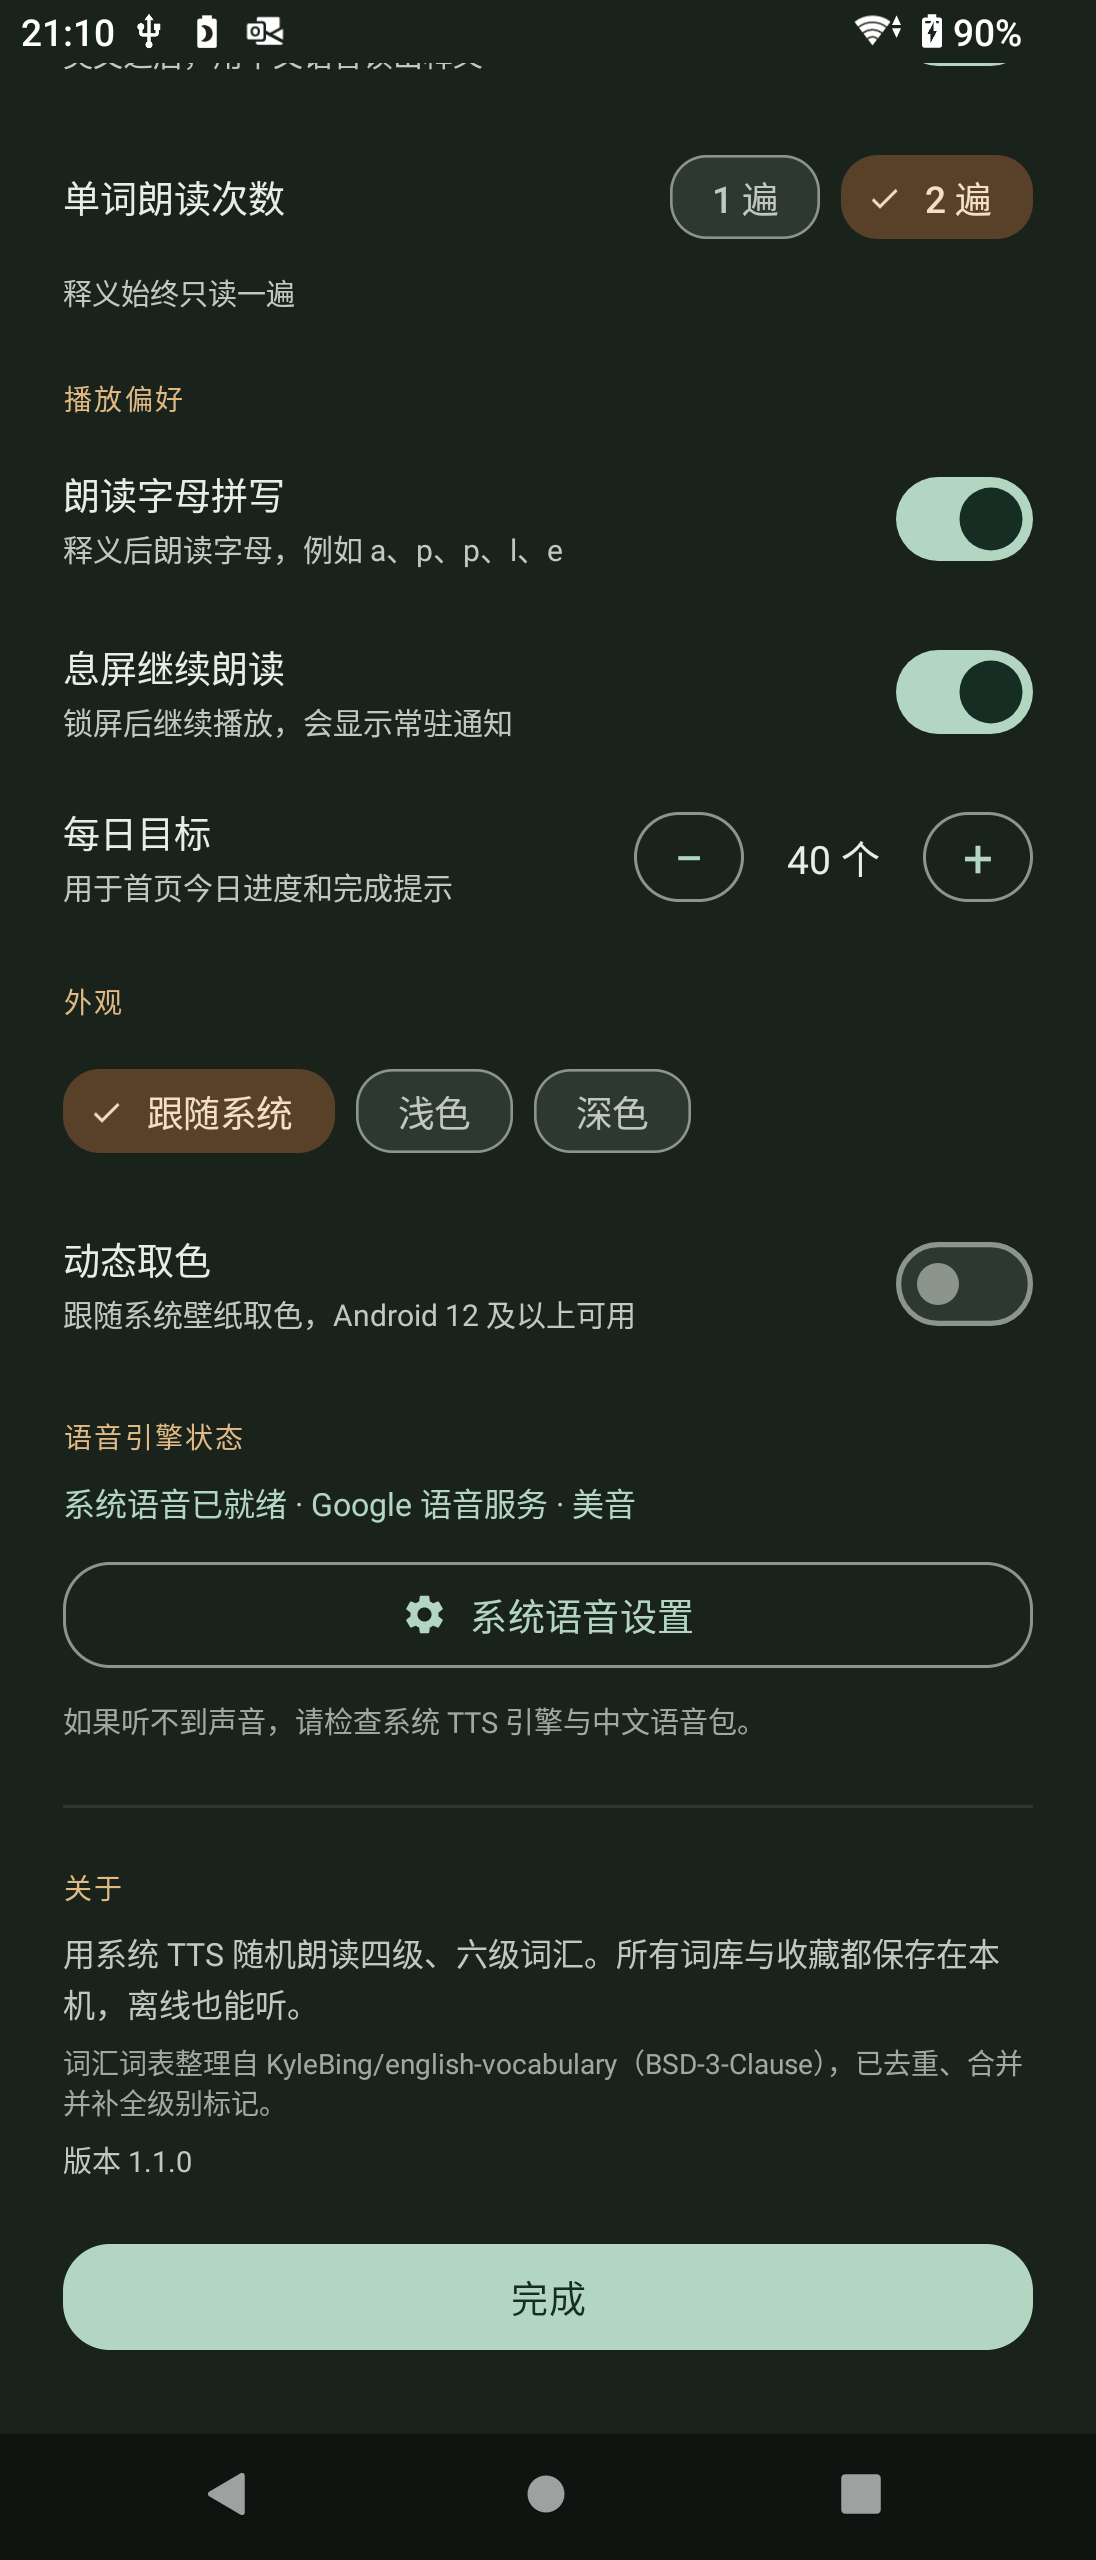
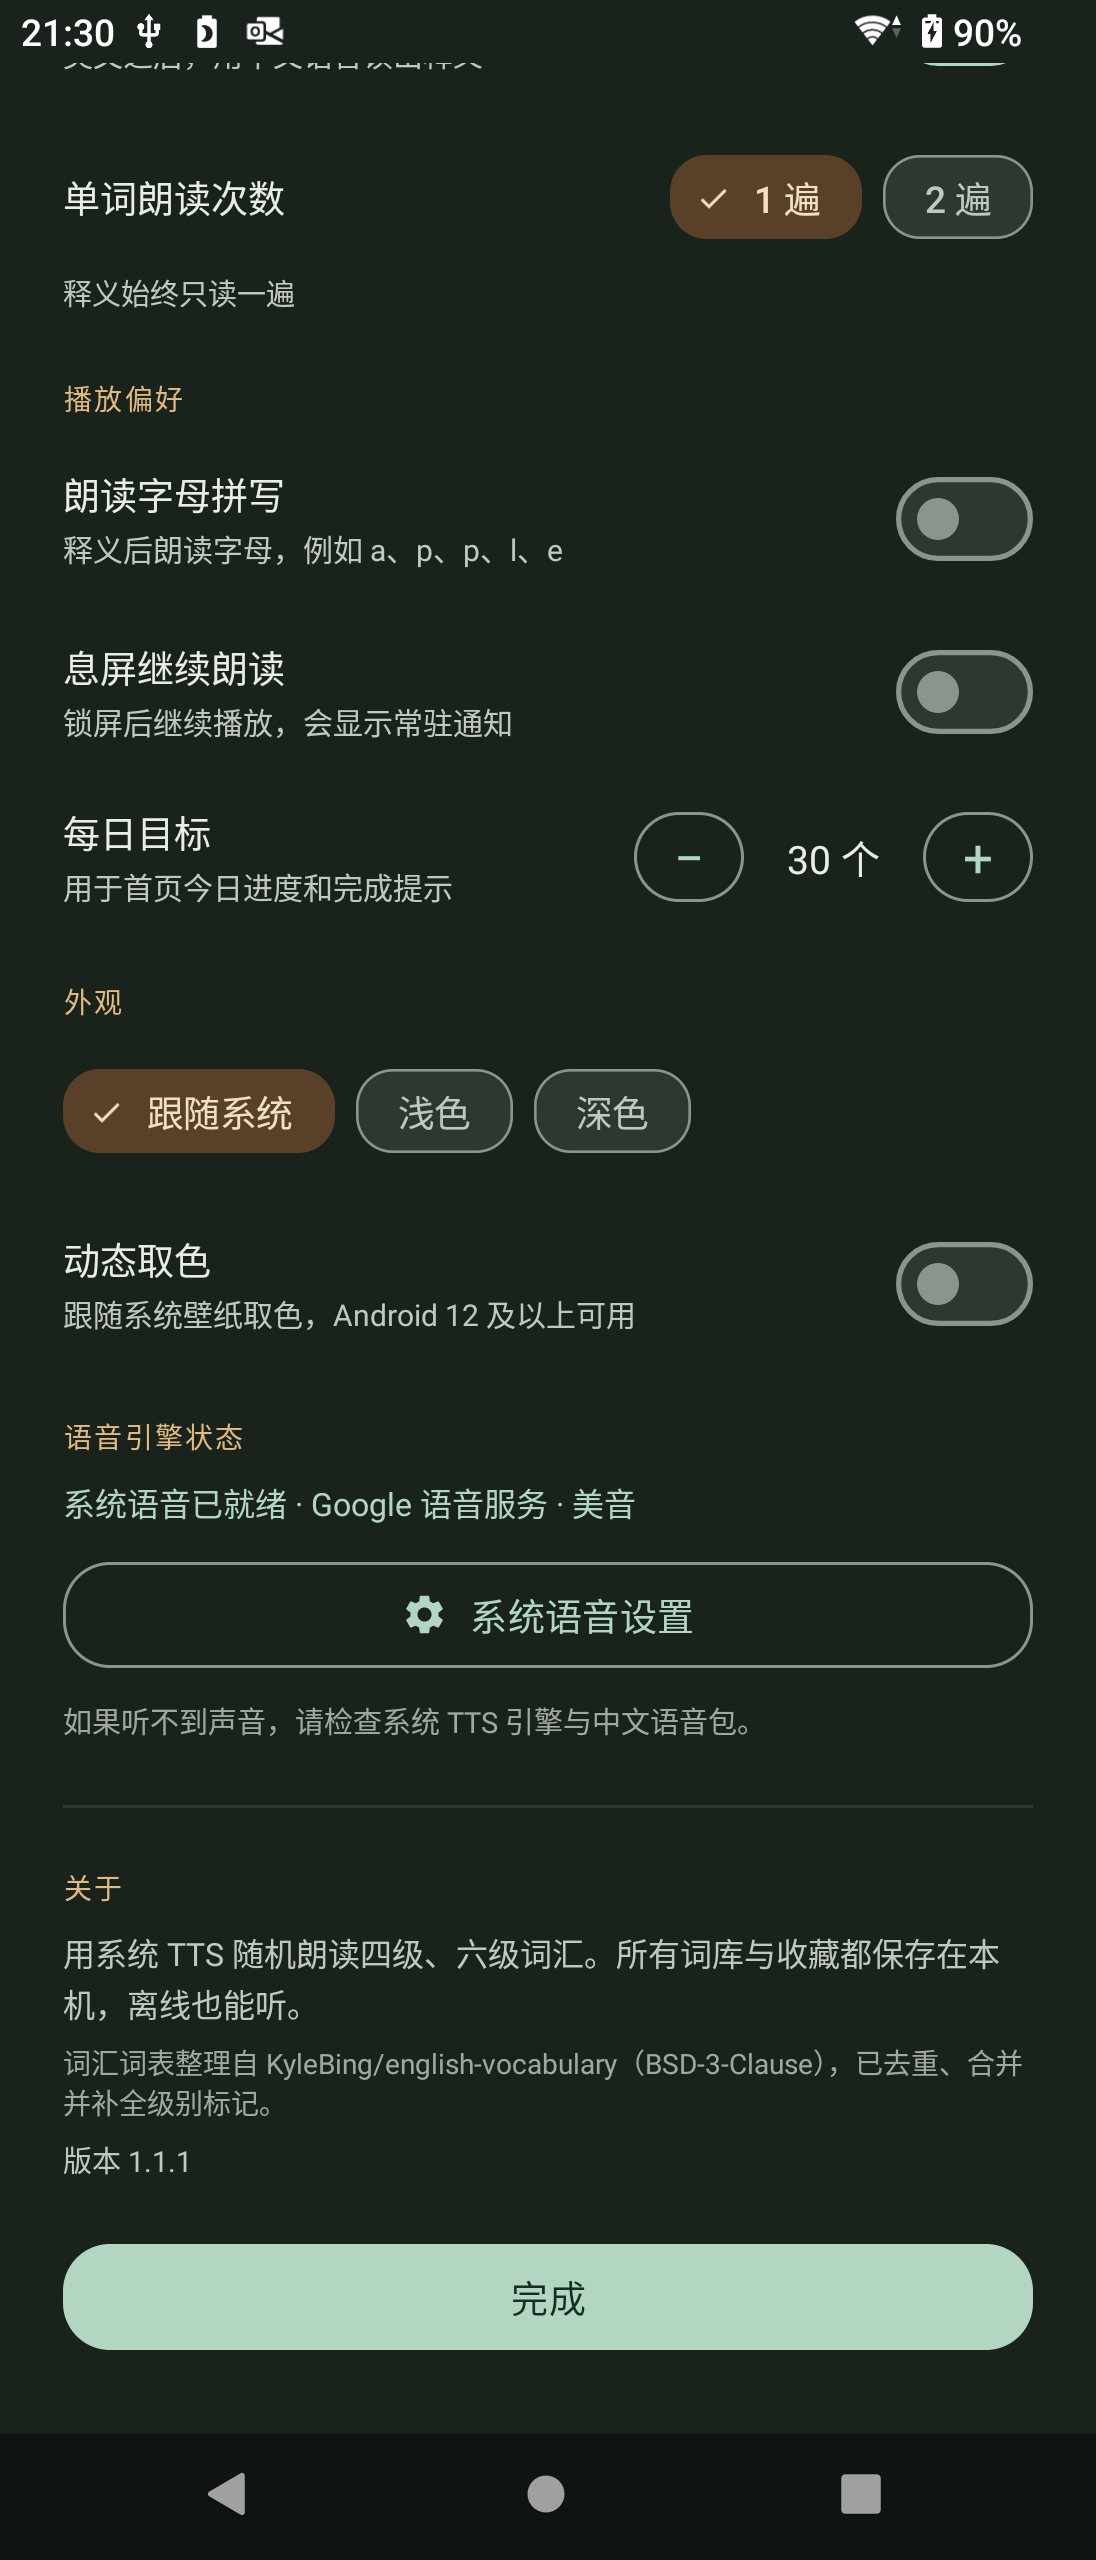
Apply dynamic color across the home page surfaces

diff --git a/app/src/main/java/com/zs/wordecho/ui/AuroraBackgroundView.java b/app/src/main/java/com/zs/wordecho/ui/AuroraBackgroundView.java
@@ -11,8 +11,8 @@ import android.util.AttributeSet;
 import android.view.View;
 
 import androidx.annotation.Nullable;
-import androidx.core.content.ContextCompat;
 
+import com.google.android.material.color.MaterialColors;
 import com.zs.wordecho.R;
 
 /**
@@ -24,8 +24,8 @@ public final class AuroraBackgroundView extends View {
     private final Paint glowPaint = new Paint(Paint.ANTI_ALIAS_FLAG);
     private final Paint linePaint = new Paint(Paint.ANTI_ALIAS_FLAG);
     private Shader baseShader;
-    private Shader greenGlow;
-    private Shader amberGlow;
+    private Shader primaryGlow;
+    private Shader tertiaryGlow;
 
     public AuroraBackgroundView(Context context) {
         this(context, null);
@@ -35,11 +35,18 @@ public final class AuroraBackgroundView extends View {
         super(context, attrs);
         linePaint.setStyle(Paint.Style.STROKE);
         linePaint.setStrokeWidth(UiUtils.dp(context, 0.65f));
-        linePaint.setColor(withAlpha(UiUtils.color(context, R.color.paper_line), 42));
+        int line = themeColor(com.google.android.material.R.attr.colorOutlineVariant,
+                R.color.paper_line);
+        linePaint.setColor(withAlpha(line, 42));
     }
 
     private static int withAlpha(int color, int alpha) {
         return Color.argb(alpha, Color.red(color), Color.green(color), Color.blue(color));
+    }
+
+    private int themeColor(int attr, int fallbackRes) {
+        return MaterialColors.getColor(getContext(), attr,
+                UiUtils.color(getContext(), fallbackRes));
     }
 
     @Override
@@ -48,22 +55,25 @@ public final class AuroraBackgroundView extends View {
         if (w <= 0 || h <= 0) {
             return;
         }
-        int background = UiUtils.color(getContext(), R.color.background);
-        int surfaceLow = UiUtils.color(getContext(), R.color.surface_container_low);
+        int background = themeColor(
+                com.google.android.material.R.attr.colorSurfaceContainerLow, R.color.background);
+        int surface = themeColor(
+                com.google.android.material.R.attr.colorSurface, R.color.surface);
         baseShader = new LinearGradient(0, 0, 0, h,
-                new int[]{background, surfaceLow, background},
+                new int[]{surface, background, surface},
                 new float[]{0f, 0.62f, 1f}, Shader.TileMode.CLAMP);
         basePaint.setShader(baseShader);
 
-        int primary = UiUtils.color(getContext(), R.color.primary);
-        greenGlow = new RadialGradient(
+        int primary = themeColor(androidx.appcompat.R.attr.colorPrimary, R.color.primary);
+        primaryGlow = new RadialGradient(
                 w * 0.12f, -h * 0.02f, w * 0.82f,
-                new int[]{withAlpha(primary, 30), withAlpha(primary, 0)},
+                new int[]{withAlpha(primary, 34), withAlpha(primary, 0)},
                 new float[]{0f, 1f}, Shader.TileMode.CLAMP);
-        int amber = UiUtils.color(getContext(), R.color.accent_amber);
-        amberGlow = new RadialGradient(
+        int tertiary = themeColor(
+                com.google.android.material.R.attr.colorTertiary, R.color.accent_amber);
+        tertiaryGlow = new RadialGradient(
                 w * 1.06f, h * 0.53f, w * 0.72f,
-                new int[]{withAlpha(amber, 25), withAlpha(amber, 0)},
+                new int[]{withAlpha(tertiary, 30), withAlpha(tertiary, 0)},
                 new float[]{0f, 1f}, Shader.TileMode.CLAMP);
     }
 
@@ -73,14 +83,15 @@ public final class AuroraBackgroundView extends View {
         int w = getWidth();
         int h = getHeight();
         if (baseShader == null) {
-            canvas.drawColor(UiUtils.color(getContext(), R.color.background));
+            canvas.drawColor(themeColor(
+                    com.google.android.material.R.attr.colorSurfaceContainerLow, R.color.background));
             return;
         }
         canvas.drawRect(0, 0, w, h, basePaint);
 
-        glowPaint.setShader(greenGlow);
+        glowPaint.setShader(primaryGlow);
         canvas.drawRect(0, 0, w, h, glowPaint);
-        glowPaint.setShader(amberGlow);
+        glowPaint.setShader(tertiaryGlow);
         canvas.drawRect(0, 0, w, h, glowPaint);
 
         int step = UiUtils.dp(getContext(), 52);

diff --git a/app/src/main/java/com/zs/wordecho/ui/UiUtils.java b/app/src/main/java/com/zs/wordecho/ui/UiUtils.java
@@ -9,6 +9,7 @@ import android.widget.TextView;
 
 import androidx.core.content.ContextCompat;
 
+import com.google.android.material.color.MaterialColors;
 import com.zs.wordecho.R;
 import com.zs.wordecho.data.AppPrefs;
 
@@ -25,6 +26,10 @@ public final class UiUtils {
 
     public static int color(Context context, int colorRes) {
         return ContextCompat.getColor(context, colorRes);
+    }
+
+    public static int themeColor(Context context, int attr, int fallbackColorRes) {
+        return MaterialColors.getColor(context, attr, color(context, fallbackColorRes));
     }
 
     public static String formatNumber(int value) {
@@ -67,24 +72,34 @@ public final class UiUtils {
     }
 
     public static void applyLevelTag(TextView view, int mask) {
-        int bg;
-        int fg;
+        int bgAttr;
+        int fgAttr;
+        int bgFallback;
+        int fgFallback;
         String label;
         if (mask == 3) {
-            bg = R.drawable.bg_level_both;
-            fg = R.color.level_both_fg;
+            bgAttr = com.google.android.material.R.attr.colorTertiaryContainer;
+            fgAttr = com.google.android.material.R.attr.colorOnTertiaryContainer;
+            bgFallback = R.color.level_both_bg;
+            fgFallback = R.color.level_both_fg;
             label = "四六级";
         } else if (mask == 2) {
-            bg = R.drawable.bg_level_six;
-            fg = R.color.level_six_fg;
+            bgAttr = com.google.android.material.R.attr.colorSecondaryContainer;
+            fgAttr = com.google.android.material.R.attr.colorOnSecondaryContainer;
+            bgFallback = R.color.level_six_bg;
+            fgFallback = R.color.level_six_fg;
             label = "CET-6";
         } else {
-            bg = R.drawable.bg_level_four;
-            fg = R.color.level_four_fg;
+            bgAttr = com.google.android.material.R.attr.colorPrimaryContainer;
+            fgAttr = com.google.android.material.R.attr.colorOnPrimaryContainer;
+            bgFallback = R.color.level_four_bg;
+            fgFallback = R.color.level_four_fg;
             label = "CET-4";
         }
-        view.setBackgroundResource(bg);
-        view.setTextColor(ContextCompat.getColor(view.getContext(), fg));
+        view.setBackgroundResource(R.drawable.bg_level_four);
+        view.setBackgroundTintList(ColorStateList.valueOf(
+                themeColor(view.getContext(), bgAttr, bgFallback)));
+        view.setTextColor(themeColor(view.getContext(), fgAttr, fgFallback));
         view.setText(label);
     }
 

diff --git a/app/src/main/java/com/zs/wordecho/ui/WaveformView.java b/app/src/main/java/com/zs/wordecho/ui/WaveformView.java
@@ -10,8 +10,8 @@ import android.view.View;
 import android.view.animation.LinearInterpolator;
 
 import androidx.annotation.Nullable;
-import androidx.core.content.ContextCompat;
 
+import com.google.android.material.color.MaterialColors;
 import com.zs.wordecho.R;
 
 /** Lightweight animated voice waveform. Animates only while speech is active. */
@@ -33,7 +33,8 @@ public final class WaveformView extends View {
         super(context, attrs);
         paint.setStyle(Paint.Style.STROKE);
         paint.setStrokeCap(Paint.Cap.ROUND);
-        baseColor = ContextCompat.getColor(context, R.color.primary);
+        baseColor = MaterialColors.getColor(context, androidx.appcompat.R.attr.colorPrimary,
+                UiUtils.color(context, R.color.primary));
         for (int i = 0; i < BAR_COUNT; i++) {
             float normalized = (float) i / (BAR_COUNT - 1);
             float envelope = (float) Math.sin(normalized * Math.PI);

diff --git a/README.md b/README.md
@@ -112,6 +112,7 @@ app/src/main/
 
 ## 更新日志
 
+- **v1.1.1**：动态取色扩展到主页面背景、单词卡、释义卡、分段控件、标签、导航栏和声波等全部主要视觉元素；关闭动态取色可恢复原主题。
 - **v1.1.0**：修复三键导航底部安全区；新增息屏朗读、每日目标修改、单词 1/2 遍 + 释义一遍、字母拼读、Android 12+ 动态取色。
 - **v1.0.2**：补全 Android 11+ 的 `TTS_SERVICE` 查询声明，使应用能识别并跟随第三方系统 TTS 引擎（如 ClonTTS）；应用回到前台时会检测系统默认引擎变化并重新初始化；设置页会显示当前实际引擎名称。
 - **v1.0.1**：修复旧版本保存的任意语速值在打开「发音与设置」时触发 Slider 校验崩溃；语速滑杆改为连续取值并做范围钳制。
